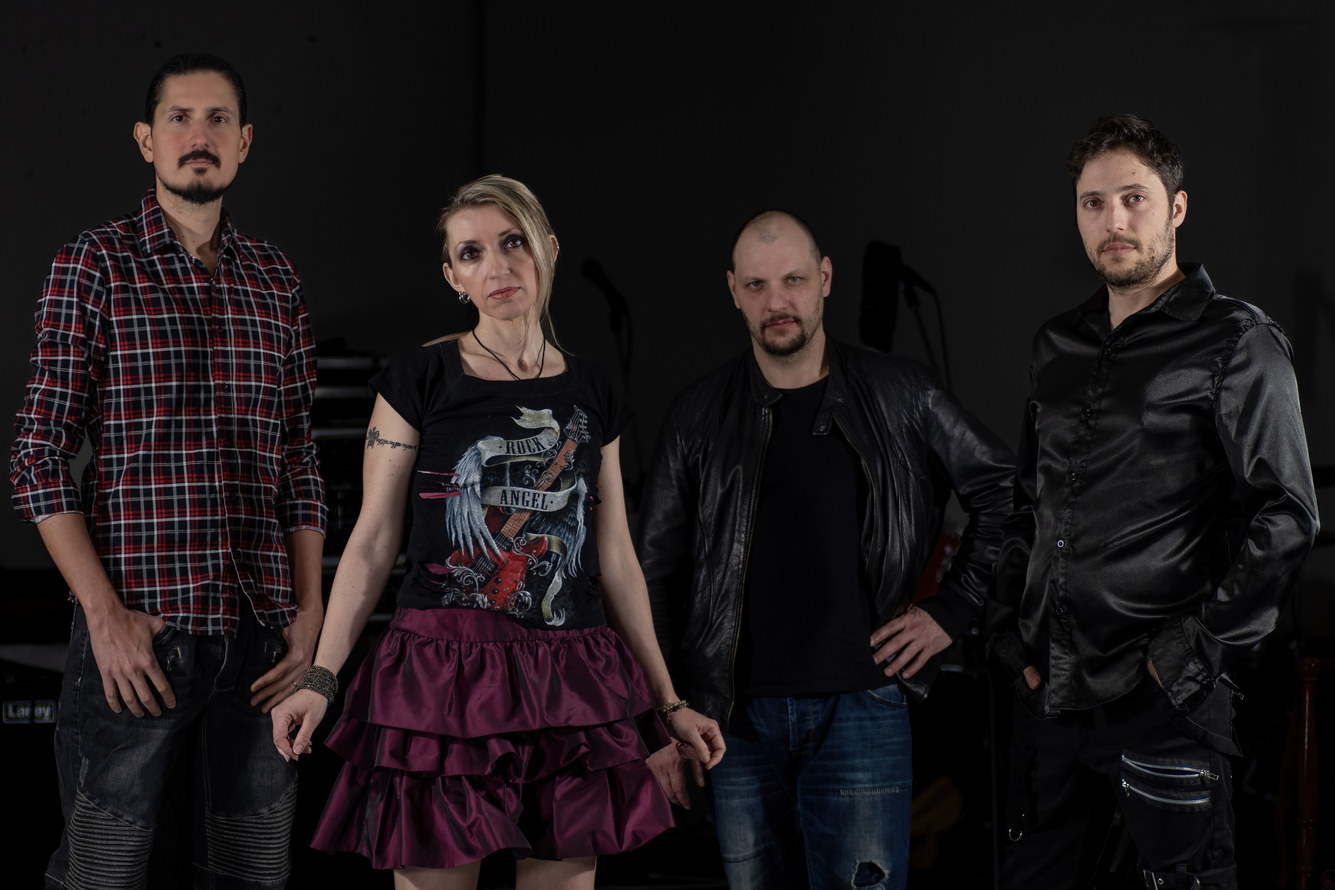
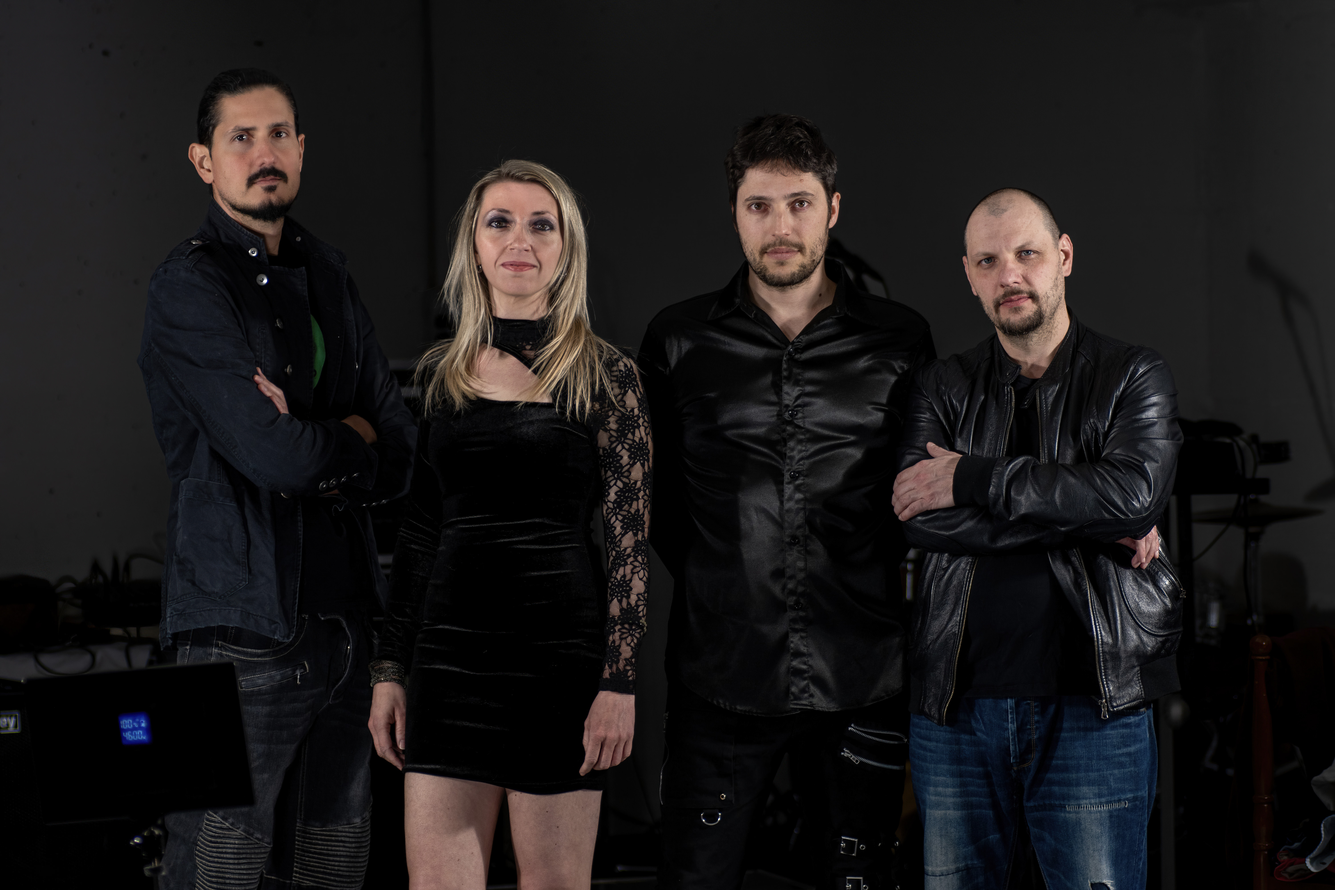
Refactor code structure for improved readability and maintainability + Irish summer tour 2025 gigs

diff --git a/lizberries/index.html b/lizberries/index.html
@@ -52,15 +52,18 @@
         <nav class="navbar navbar-expand-md navbar-dark bg-dark-secondary">
             <div class="container">
                 <div class="social-media">
-                    <a href="https://www.facebook.com/TheLizberries" rel="noopener" target="_blank" title="The Lizberries Facebook">
+                    <a href="https://www.facebook.com/TheLizberries" rel="noopener" target="_blank"
+                        title="The Lizberries Facebook">
                         <i class="bi-facebook"></i>
                         <span class="sr-only">Facebook</span>
                     </a>
-                    <a href="https://www.youtube.com/TheLizberries" rel="noopener" target="_blank" title="The Lizberries YouTube">
+                    <a href="https://www.youtube.com/TheLizberries" rel="noopener" target="_blank"
+                        title="The Lizberries YouTube">
                         <i class="bi-youtube"></i>
                         <span class="sr-only">YouTube</span>
                     </a>
-                    <a href="https://instagram.com/thelizberries" rel="noopener" target="_blank" title="The Lizberries Instagram">
+                    <a href="https://instagram.com/thelizberries" rel="noopener" target="_blank"
+                        title="The Lizberries Instagram">
                         <i class="bi-instagram"></i>
                         <span class="sr-only">Instagram</span>
                     </a>
@@ -135,8 +138,8 @@
                         <hr class="hr-red">
                         <!-- Nuovo Div -->
                         <div class="image-container">
-                            <img src="../lizberries/lizberriesPhotos/the_queen_of_limerick.jpg" alt="The Queen of Limerick" 
-                            class="img-fluid_tqol">
+                            <img src="../lizberries/lizberriesPhotos/the_queen_of_limerick.jpg"
+                                alt="The Queen of Limerick" class="img-fluid_tqol">
                             <div class="btn-wrapper">
                                 <!-- <a href="https://www.vivaticket.com/it/ticket/the-queen-of-limerick/242280?culture=it-it" rel="noopener noreferrer"
                                 target="_blank" class="btn btn-primary mt-3 text-uppercase font-weight-bold btn-gradient">
@@ -148,8 +151,10 @@
                         <div>
                             <iframe
                                 src="https://www.facebook.com/plugins/page.php?href=https%3A%2F%2Fwww.facebook.com%2FTheLizberries&tabs=timeline&width=400&height=500&small_header=false&adapt_container_width=true&hide_cover=false&show_facepile=true&appId"
-                                width="400" height="500" class="facebook-iframe" scrolling="no" frameborder="0" allowfullscreen="true"
-                                allow="autoplay; clipboard-write; encrypted-media; picture-in-picture; web-share" title="The Lizberries Facebook Page">
+                                width="400" height="500" class="facebook-iframe" scrolling="no" frameborder="0"
+                                allowfullscreen="true"
+                                allow="autoplay; clipboard-write; encrypted-media; picture-in-picture; web-share"
+                                title="The Lizberries Facebook Page">
                             </iframe>
                         </div>
                     </div>
@@ -185,13 +190,14 @@
                                 <div class="collapse mt-3" id="moreInfoCollapse"></div>
                             </div>
                         </aside>
-                        <aside class="card box-shadow bg-dark-primary text-white mt-4" id="showcase-press-thelizberries">
+                        <aside class="card box-shadow bg-dark-primary text-white mt-4"
+                            id="showcase-press-thelizberries">
                             <div class="card-body">
                                 <h3>Press</h3>
                                 <div id="press-gallery" class="press-gallery">
-                                <!-- Empty div for dynamic content -->
-                                <div class="collapse mt-3" id="moreInfoCollapsePress"></div>
-                            </div>
+                                    <!-- Empty div for dynamic content -->
+                                    <div class="collapse mt-3" id="moreInfoCollapsePress"></div>
+                                </div>
                         </aside>
                     </div>
                 </div>
@@ -235,32 +241,50 @@
                         <br>
                         <!--<a class="text-red" href="#">see on Facebook</a>-->
                         <p class="font-weight-100 letter-spacing-4px gig-live">
-                            <i class="far fa-star"></i> Stay tuned for the Irish Summer Tour 2025!
+                            <i class="far fa-star"></i> 04/07/2025 - Monroe's - Galway (IRL)
+                            <a class="text-red" href="https://monroes.ie/products/the-lizberries" rel="noopener noreferrer"
+                                target="_blank">Tickets</a>
+                        </p>
+                        <p class="font-weight-100 letter-spacing-4px gig-live">
+                            <i class="far fa-star"></i> 05/07/2025 - Dolan's - Limerick (IRL)
+                            <a class="text-red" href="https://www.dolans.ie/gigs-events-live-music-listings/2025/7/5/the-lizzberries-tribute-to-the-cranberries" rel="noopener noreferrer"
+                                target="_blank">Tickets</a>
+                        </p>
+                        <p class="font-weight-100 letter-spacing-4px gig-live">
+                            <i class="far fa-star"></i> 11/07/2025 - Whelan's - Dublin (IRL)
+                            <a class="text-red" href="https://www.whelanslive.com/event/the-lizberries/" rel="noopener noreferrer"
+                                target="_blank">Tickets</a>
+                        </p>
+                        <p class="font-weight-100 letter-spacing-4px gig-live">
+                            <i class="far fa-star"></i> 12/07/2025 - Cyprus Avenue - Cork (IRL)
+                            <a class="text-red" href="https://www.cyprusavenue.ie/gigs/cranberries-tribute-performed-by-the-lizberries-11178643" rel="noopener noreferrer"
+                                target="_blank">Tickets</a>
                         </p>
                     </div>
                 </div>
             </div>
         </section>
 
-        <section class="background pb-5 pt-5 text-white text-center bg-dark-secondary" id="showcase-collaborations-lizberries">
+        <section class="background pb-5 pt-5 text-white text-center bg-dark-secondary"
+            id="showcase-collaborations-lizberries">
             <div class="container">
                 <h2 class="text-uppercase display-4">Collaborations</h2>
                 <hr class="hr-red">
                 <div class="row d-flex align-items-stretch">
                     <div class="col-md-4 col-sm-6 mb-4 d-flex">
-                        <div class="card bg-dark border-0 text-white">
-                            <a href="https://open.spotify.com/intl-it/track/0QCrVlDoNn7Adq94TceFSd?si=0247362b1e9b4cf6"
-                                rel="noopener" target="_blank">
+                        <a href="https://open.spotify.com/intl-it/track/0QCrVlDoNn7Adq94TceFSd?si=0247362b1e9b4cf6"
+                            rel="noopener" target="_blank" class="no-underline">
+                            <div class="card bg-dark border-0 text-white">
                                 <img src="../lizberries/lizberriesPhotos/andrea-rock-true-stories-dolores.jpeg"
                                     class="card-img-top" alt="Dolores song">
-                            </a>
-                            <div class="card-body bg-dark-primary">
-                                <h4 class="card-title">Dolores song ft. Andrea Rock</h4>
-                                <p class="card-text">On Spotify listen to the song in memory of Dolores by Andrea
-                                    Rock & The Rebel Poets ft. Cristina from the Lizberries
-                                </p>
+                                <div class="card-body bg-dark-primary">
+                                    <h4 class="card-title">Dolores song ft. Andrea Rock</h4>
+                                    <p class="card-text">On Spotify listen to the song in memory of Dolores by Andrea
+                                        Rock & The Rebel Poets ft. Cristina from the Lizberries
+                                    </p>
+                                </div>
                             </div>
-                        </div>
+                        </a>
                     </div>
                     <div class="col-md-4 col-sm-6 mb-4 d-flex">
                         <div class="card bg-dark border-0 text-white">
@@ -297,52 +321,60 @@
 
                     <div class="col-lg-3 col-md-6 col-sm-6 mb-4">
                         <div class="card bg-dark border-0 text-white h-100">
-                            <img src="../lizberries/lizberriesPhotos/logo_schennach_agency.svg" class="card-img-top" alt="Schennach Agency">
+                            <img src="../lizberries/lizberriesPhotos/logo_schennach_agency.svg" class="card-img-top"
+                                alt="Schennach Agency">
                             <div class="card-body">
                                 <h4 class="card-title">Schennach Agency</h4>
                                 <p class="card-text">
                                     <strong>Countries covered:</strong> Austria, Liechtenstein, Switzerland, Germany
                                 </p>
-                                <a href="https://www.tributeband-live.com/en/" rel="noopener" target="_blank" class="btn btn-outline-light">Visit the website</a>
+                                <a href="https://www.tributeband-live.com/en/" rel="noopener" target="_blank"
+                                    class="btn btn-outline-light">Visit the website</a>
                             </div>
                         </div>
                     </div>
-                    
+
                     <div class="col-lg-3 col-md-6 col-sm-6 mb-4">
                         <div class="card bg-dark border-0 text-white h-100">
-                            <img src="../lizberries/lizberriesPhotos/logo_key_event_service_agency.png" class="card-img-top" alt="Key Events Service">
+                            <img src="../lizberries/lizberriesPhotos/logo_key_event_service_agency.png"
+                                class="card-img-top" alt="Key Events Service">
                             <div class="card-body">
                                 <h4 class="card-title">Key Events Service</h4>
                                 <p class="card-text">
                                     <strong>Countries covered:</strong> Italy (theaters, indoor stadiums)
                                 </p>
-                                <a href="https://www.linkedin.com/company/key-events-service-production-management/" rel="noopener" target="_blank" class="btn btn-outline-light">Visit the website</a>
+                                <a href="https://www.linkedin.com/company/key-events-service-production-management/"
+                                    rel="noopener" target="_blank" class="btn btn-outline-light">Visit the website</a>
                             </div>
                         </div>
                     </div>
 
                     <div class="col-lg-3 col-md-6 col-sm-6 mb-4">
                         <div class="card bg-dark border-0 text-white h-100">
-                            <img src="../lizberries/lizberriesPhotos/logo_starsgarden_agency.png" class="card-img-top" alt="Star's Garden">
+                            <img src="../lizberries/lizberriesPhotos/logo_starsgarden_agency.png" class="card-img-top"
+                                alt="Star's Garden">
                             <div class="card-body">
                                 <h4 class="card-title">Star's Garden</h4>
                                 <p class="card-text">
                                     <strong>Countries covered:</strong> Italy (venues)
                                 </p>
-                                <a href="https://www.starsgarden.it/" rel="noopener" target="_blank" class="btn btn-outline-light">Visit the website</a>
+                                <a href="https://www.starsgarden.it/" rel="noopener" target="_blank"
+                                    class="btn btn-outline-light">Visit the website</a>
                             </div>
                         </div>
                     </div>
 
                     <div class="col-lg-3 col-md-6 col-sm-6 mb-4">
                         <div class="card bg-dark border-0 text-white h-100">
-                            <img src="../lizberries/lizberriesPhotos/logo_art_events_croatia.png" class="card-img-top" alt="Art Events Croatia">
+                            <img src="../lizberries/lizberriesPhotos/logo_art_events_croatia.png" class="card-img-top"
+                                alt="Art Events Croatia">
                             <div class="card-body">
                                 <h4 class="card-title">Art Events Croatia</h4>
                                 <p class="card-text">
                                     <strong>Countries covered:</strong> Croatia, Slovenia
                                 </p>
-                                <a href="https://arteventscroatia.com/" rel="noopener" target="_blank" class="btn btn-outline-light">Visit the website</a>
+                                <a href="https://arteventscroatia.com/" rel="noopener" target="_blank"
+                                    class="btn btn-outline-light">Visit the website</a>
                             </div>
                         </div>
                     </div>

diff --git a/css/liz.css b/css/liz.css
@@ -34,6 +34,14 @@ button {
 	background-position: top;
 }
 
+.no-underline {
+    text-decoration: none;
+}
+
+.no-underline:hover {
+    text-decoration: none;
+}
+
 #showcase-background-thelizberries {
 	background-image: linear-gradient(rgba(0, 0, 0, 0.1), rgba(0, 0, 0, 0.6)),
 		url("../lizberries/lizberriesPhotos/theLizberriesHome.jpg");
